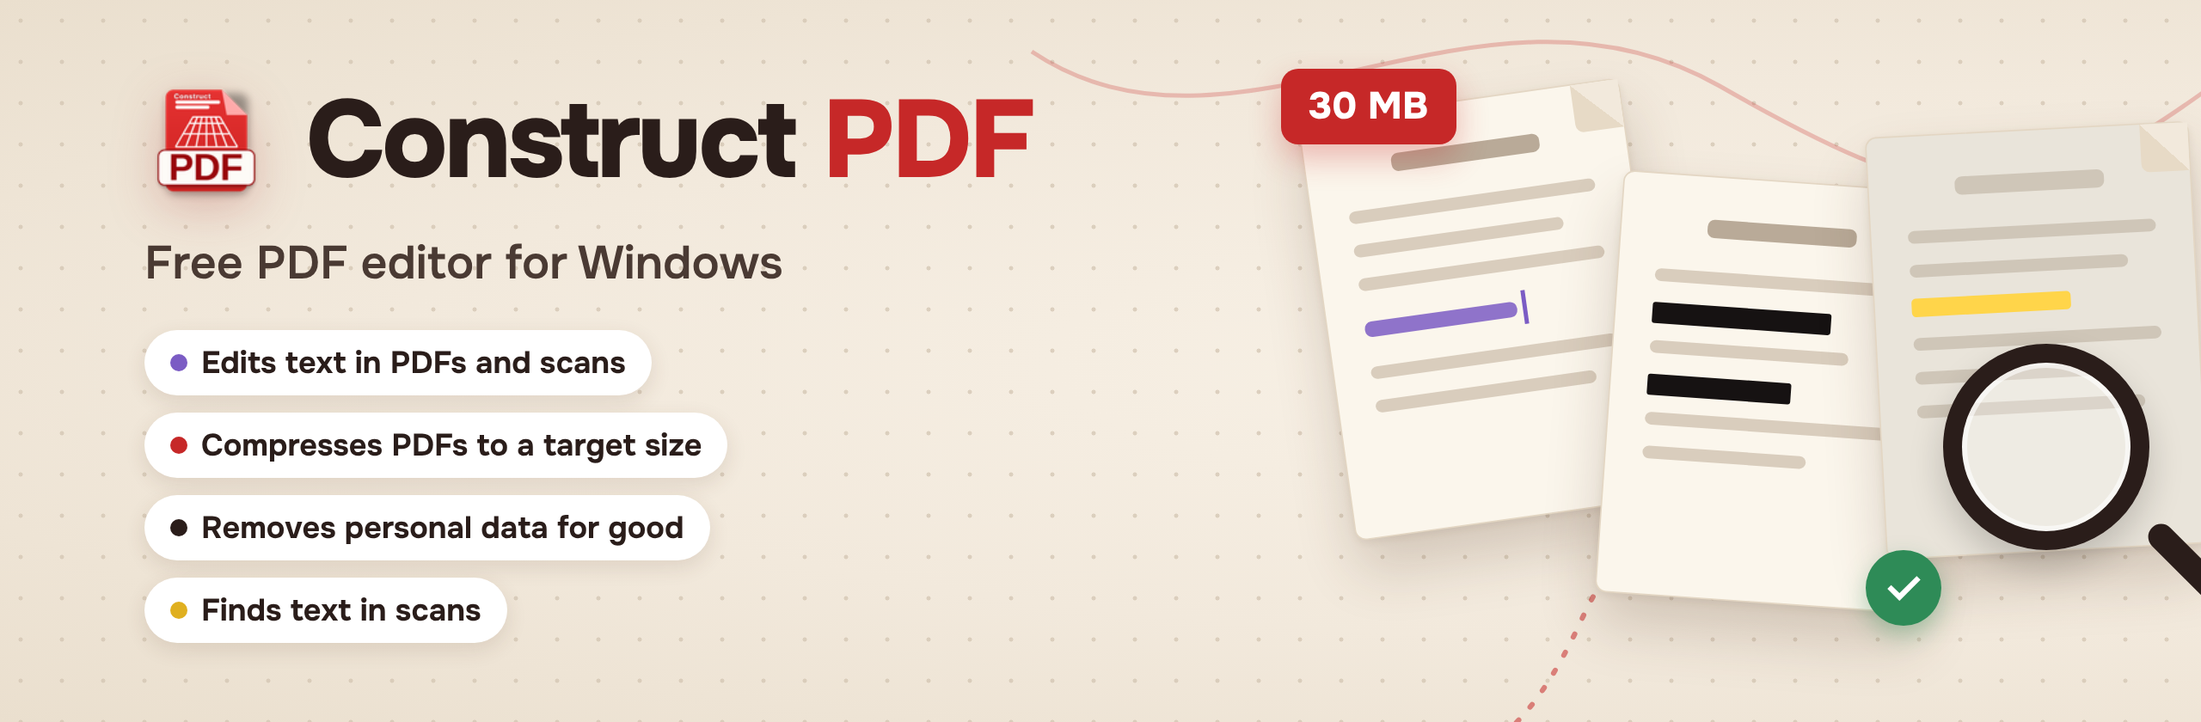
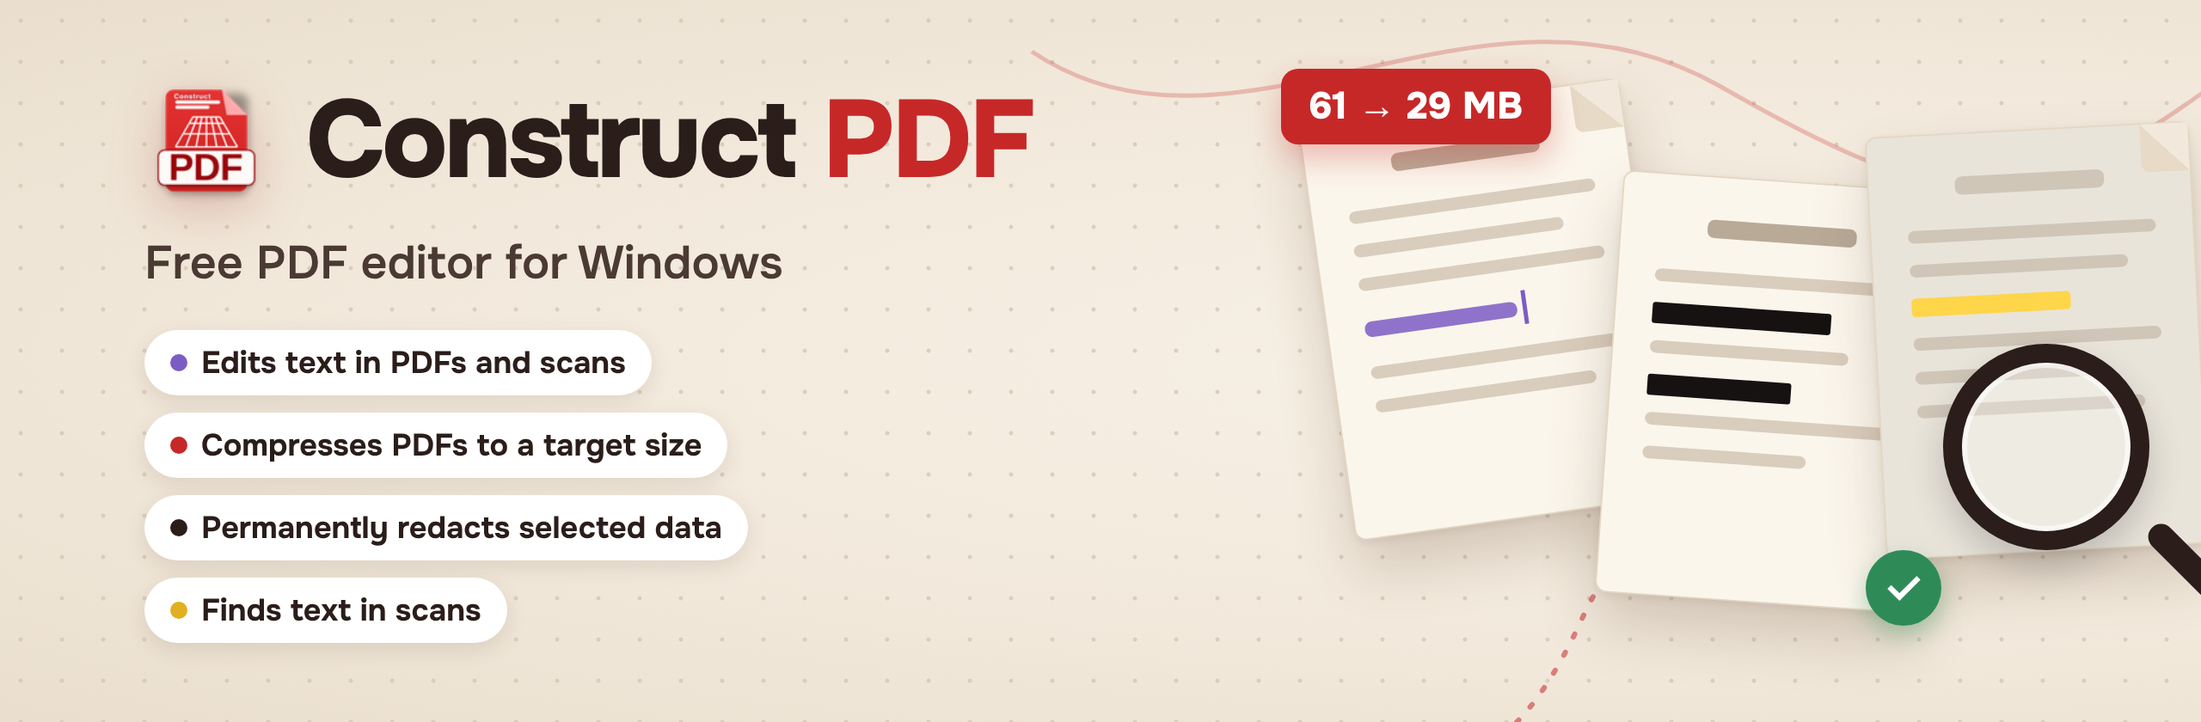
README: download mirror, safety section, wording; issue templates, SECURITY.md

Changed region(s): [[0.5938, 0.0929, 0.7188, 0.2476], [0.0938, 0.681, 0.3438, 0.7738]]

diff --git a/README.ru.md b/README.ru.md
@@ -1,64 +1,82 @@
+<p align="right"><a href="README.md">English</a> · <b>Русский</b></p>
+
 <p align="center"><img src="images/banner.ru.png" alt="Construct PDF — бесплатный PDF-редактор для Windows" width="100%"></p>
 
 <p align="center">
-<b>Бесплатный PDF-редактор для Windows</b> — без рекламы, регистрации и водяных знаков.<br>
-Работает без интернета, файлы никуда не уходят.
+<b>Бесплатный PDF-редактор для Windows.</b> Правка PDF и сканов, сжатие до нужного размера, закрашивание выбранных данных.<br>
+Без рекламы, регистрации и водяных знаков. Работает без интернета: документы остаются на вашем компьютере.
 </p>
 
 <p align="center">
-<a href="https://constructpdf.ru/skachat.html"><b>Скачать</b></a> ·
-<a href="https://constructpdf.online">Версия в браузере</a> ·
-<a href="https://constructpdf.ru">Сайт</a> ·
-<a href="README.md">English</a>
+<a href="https://constructpdf.ru/skachat.html"><b>Скачать для Windows</b></a> ·
+<a href="https://constructpdf.online">Попробовать в браузере</a> ·
+<a href="https://github.com/DmitroRussia/construct-pdf/releases/latest">Копия на GitHub</a>
 </p>
+
+<p align="center">
+<a href="https://github.com/DmitroRussia/construct-pdf/releases/latest"><img alt="Последняя версия" src="https://img.shields.io/github/v/release/DmitroRussia/construct-pdf?label=версия&color=c62828"></a>
+<img alt="Windows 7–11" src="https://img.shields.io/badge/Windows-7%20%E2%80%93%2011-2a1d1a">
+</p>
+
+<!-- СКРИНШОТ: images/editor-ru.png — настоящее окно программы, учебный документ -->
 
 ---
 
-## Что умеет
+## Главное
 
 | Функция | Что делает |
 |---|---|
-| **Редактирует текст в PDF и сканах** | Главная функция: правка текста прямо в PDF и в сканах — с подбором похожего шрифта, как в обычном текстовом редакторе. |
-| **Сжимает PDF до нужного размера** | Вводите нужный размер в мегабайтах — программа сама подбирает сжатие, чтобы файл уложился в лимит портала, а текст оставался читаемым. |
-| **Удаляет личные данные без следа** | Паспорт, СНИЛС, телефон удаляются из файла, а не прячутся под прямоугольником: их не найти поиском и не скопировать. После сохранения программа сама проверяет, что под плашкой не осталось текста. |
-| **Находит текст в сканах** | Русский и английский текст распознаётся прямо на компьютере: по скану работают поиск и копирование, текст можно сохранить в Word. |
-| **Работает со страницами** | Объединить, разделить, повернуть, удалить, извлечь страницы. |
-| **Подписывает документы** | Электронная подпись через КриптоПро, нарисованная или из картинки. |
-| **Переводит в другие форматы** | PDF в Word, картинки в PDF и обратно. |
+| **Редактирует текст в PDF и сканах** | Правка существующего текста в PDF и на страницах сканов с автоматическим подбором шрифта. |
+| **Сжимает до нужного размера** | Вводите размер в мегабайтах — программа подбирает сжатие под лимит портала. Перед отправкой проверьте качество результата. |
+| **Удаляет выбранные данные со страниц** | Выбранный текст и изображение под плашкой удаляются со страницы, а не прячутся: их не найти поиском и не скопировать. После сохранения программа проверяет результат. Свойства документа и закладки проверяйте отдельно. |
+| **Находит текст в сканах** | Распознавание русского и английского прямо на компьютере: по скану работают поиск и копирование, текст можно сохранить в Word. |
 
 <p align="center">
-<img src="images/compress.png" alt="Сжатие до заданного размера" width="410">
-<img src="images/redact.png" alt="Закрашивание данных" width="410">
-<img src="images/ocr.png" alt="Распознавание скана" width="410">
+<img src="images/compress.png" alt="Сжатие до заданного размера" width="600">
 </p>
+<sub>Схема на учебном примере, данные вымышлены.</sub>
 
-<sub>На картинках — учебные примеры, данные вымышлены.</sub>
-
-## Системные требования
-
-- Windows 7, 8.1, 10, 11
-- Установщик около 18 МБ или ZIP без установки
-- Linux — бета-версия, на сайте
+**Ещё:** объединение, разделение, поворот, удаление и извлечение страниц · подпись через КриптоПро, нарисованная или из картинки · PDF в Word, картинки в PDF и обратно.
 
 ## Скачать
 
-- **[Последняя версия на сайте](https://constructpdf.ru/skachat.html)** — установщик и ZIP
-- Без установки, в браузере: **[constructpdf.online](https://constructpdf.online)**
+| Система | Файл | Где |
+|---|---|---|
+| Windows 7, 8.1, 10, 11 | Установщик, около 18 МБ | [constructpdf.ru](https://constructpdf.ru/skachat.html) · [копия на GitHub](https://github.com/DmitroRussia/construct-pdf/releases/latest) |
+| Windows | ZIP без установки | там же |
+| Linux x64 | Бета, `.tar.gz` — часть функций Windows-версии ещё переносится | [копия на GitHub](https://github.com/DmitroRussia/construct-pdf/releases/latest) · сайт |
+| Любой браузер | Онлайн-версия без установки | [constructpdf.online](https://constructpdf.online) |
 
 Программа сама проверяет обновления и предлагает установить новую версию.
 
+## Безопасность скачивания
+
+- Установщик **пока не подписан цифровой подписью**. Некоторые антивирусные движки отмечают эту сборку; разработчик считает срабатывания ошибочными и направил файл на пересмотр.
+- [Отчёт VirusTotal для ConstructPDF-1.7-Setup.exe](https://www.virustotal.com/gui/file/449224ce1a3a748cd1a82ba9be3aa4f89edfb38f7ab740d36618acf5a98a5f87)
+- Контрольные суммы SHA-256 — в каждом релизе и в файле `SHA256SUMS.txt`. Проверить скачанный файл в PowerShell:
+
+```powershell
+Get-FileHash .\ConstructPDF-1.7-Setup.exe -Algorithm SHA256
+```
+
+Совпадение суммы подтверждает, что файл тот же, что опубликован здесь, но само по себе не гарантирует безопасность.
+
 ## Ограничения
 
-- При закрашивании свойства документа и закладки нужно проверять отдельно.
+- При закрашивании свойства документа и закладки проверяйте отдельно.
 - Распознавание — только русский и английский.
 - Версия для Linux пока в бете.
 
-## Ошибки и пожелания
+## Обратная связь
 
-Пишите в [Issues](../../issues) или на **support@constructpdf.ru**.
+- Ошибка или пожелание: создайте [issue](https://github.com/DmitroRussia/construct-pdf/issues/new/choose). Не прикладывайте документы с реальными персональными данными.
+- Проблема безопасности (например, закрашенные данные читаются): см. [SECURITY.md](SECURITY.md).
+- Почта: **support@constructpdf.ru**
+
+Если программа пригодилась, можно поддержать проект звездой.
 
 ## Лицензия
 
-Construct PDF — бесплатная программа (freeware) с закрытым исходным кодом. Этот репозиторий — страница проекта: описание, ссылки на скачивание и обратная связь. Сторонние компоненты и их лицензии перечислены в файле «Лицензии сторонних компонентов» в папке программы.
+Бесплатная программа (freeware). Исходный код программы не публикуется. Этот репозиторий — описание, файлы для скачивания и обратная связь. Сторонние компоненты и их лицензии перечислены в файле «Лицензии сторонних компонентов» в папке программы.
 
 © 2026 DmitroRussia

diff --git a/README.md b/README.md
@@ -1,43 +1,60 @@
+<p align="right"><b>English</b> · <a href="README.ru.md">Русский</a></p>
+
 <p align="center"><img src="images/banner.png" alt="Construct PDF — free PDF editor for Windows" width="100%"></p>
 
 <p align="center">
-<b>Free PDF editor for Windows</b> — no ads, no sign-up, no watermarks.<br>
-Works offline: your files never leave your computer.
+<b>Free PDF editor for Windows.</b> Edit PDFs and scanned pages, compress to a target size, redact selected content.<br>
+No ads, no sign-up, no watermarks. Works offline: your documents stay on your computer.
 </p>
 
 <p align="center">
-<a href="https://constructpdf.ru/en/download.html"><b>Download</b></a> ·
-<a href="https://constructpdf.online/en/">Online version</a> ·
-<a href="https://constructpdf.ru/en/">Website</a> ·
-<a href="README.ru.md">Русская версия</a>
+<a href="https://constructpdf.ru/en/download.html"><b>Download for Windows</b></a> ·
+<a href="https://constructpdf.online/en/">Try online</a> ·
+<a href="https://github.com/DmitroRussia/construct-pdf/releases/latest">GitHub mirror</a>
 </p>
+
+<p align="center">
+<a href="https://github.com/DmitroRussia/construct-pdf/releases/latest"><img alt="Latest release" src="https://img.shields.io/github/v/release/DmitroRussia/construct-pdf?label=latest&color=c62828"></a>
+<img alt="Windows 7–11" src="https://img.shields.io/badge/Windows-7%20%E2%80%93%2011-2a1d1a">
+</p>
+
+<!-- SCREENSHOT: images/editor-en.png — real program window, example document -->
 
 ---
 
-## Features
+## Main features
 
 | Feature | What it does |
 |---|---|
-| **Edits text in PDFs and scans** | The main feature: edit text right in a PDF or a scanned page, with a matching font — like in a regular word processor. |
-| **Compresses PDFs to a target size** | Enter the size in megabytes and the app picks the compression so the file fits an upload limit while the text stays readable. |
-| **Removes personal data for good** | ID numbers, phone numbers and addresses are removed from the file, not just covered with a box: they cannot be found or copied. After saving, the app checks that no text is left under the boxes. |
-| **Finds text in scans** | Russian and English OCR on your computer: scans become searchable and copyable, and the text can be saved to Word. |
-| **Works with pages** | Merge, split, rotate, delete and extract pages. |
-| **Signs documents** | CryptoPro e-signature, a drawn signature or one from an image. |
-| **Converts** | PDF to Word, images to PDF and back. |
+| **Edits text in PDFs and scans** | Edit existing text in PDFs and in scanned pages, with automatic font matching. |
+| **Compresses to a target size** | Enter the size in megabytes and the app picks the compression to fit an upload limit. Check the result quality before sending. |
+| **Redacts selected content** | Selected text and the image under the box are removed from the page, not just covered: they cannot be found or copied. A self-check runs after saving. Check document properties and bookmarks separately. |
+| **Finds text in scans** | Russian and English OCR on your computer: scans become searchable and copyable, the text can be saved to Word. |
 
-## System requirements
-
-- Windows 7, 8.1, 10, 11
-- Installer about 18 MB, or a ZIP that runs without installation
-- Linux — beta, available on the website
+**Also:** merge, split, rotate, delete and extract pages · CryptoPro e-signature, drawn or image signature · PDF to Word, images to PDF and back.
 
 ## Download
 
-- **[Latest version on the website](https://constructpdf.ru/en/download.html)** — installer and ZIP
-- No installation, in your browser: **[constructpdf.online](https://constructpdf.online/en/)**
+| Platform | File | Where |
+|---|---|---|
+| Windows 7, 8.1, 10, 11 | Installer, about 18 MB | [constructpdf.ru](https://constructpdf.ru/en/download.html) · [GitHub mirror](https://github.com/DmitroRussia/construct-pdf/releases/latest) |
+| Windows | Portable ZIP, runs without installation | same |
+| Linux x64 | Beta, `.tar.gz` — some Windows features are still being ported | [GitHub mirror](https://github.com/DmitroRussia/construct-pdf/releases/latest) · website |
+| Any browser | Online version, no installation | [constructpdf.online](https://constructpdf.online/en/) |
 
 The app checks for updates and offers to install a new version.
+
+## Download safety
+
+- The installer is **not yet code-signed**. Some antivirus engines flag this build; the developer considers these detections false positives and has submitted the file for review.
+- [VirusTotal report for ConstructPDF-1.7-Setup.exe](https://www.virustotal.com/gui/file/449224ce1a3a748cd1a82ba9be3aa4f89edfb38f7ab740d36618acf5a98a5f87)
+- SHA-256 checksums are listed in each release and in `SHA256SUMS.txt`. To check a downloaded file in PowerShell:
+
+```powershell
+Get-FileHash .\ConstructPDF-1.7-Setup.exe -Algorithm SHA256
+```
+
+A matching checksum confirms the file is the one published here; it is not a safety guarantee by itself.
 
 ## Limitations
 
@@ -45,12 +62,16 @@ The app checks for updates and offers to install a new version.
 - OCR supports Russian and English only.
 - The Linux version is in beta.
 
-## Bugs and feature requests
+## Feedback
 
-Open an [issue](../../issues) or write to **support@constructpdf.ru**.
+- Bug or idea: open an [issue](https://github.com/DmitroRussia/construct-pdf/issues/new/choose). Please do not attach documents with real personal data.
+- Security problem (for example, redacted data still readable): see [SECURITY.md](SECURITY.md).
+- Email: **support@constructpdf.ru**
+
+If the app is useful to you, you can support the project with a star.
 
 ## License
 
-Construct PDF is free software (freeware) with closed source code. This repository is the project page: description, download links and feedback. Third-party components and their licenses are listed in the "Third-party licenses" file in the program folder.
+Freeware. The application source code is not published. This repository hosts documentation, downloads and issue tracking. Third-party components and their licenses are listed in a file in the program folder.
 
 © 2026 DmitroRussia

diff --git a/SECURITY.md b/SECURITY.md
@@ -1,0 +1,27 @@
+# Security / Безопасность
+
+## Reporting a problem
+
+If you find a security problem — for example, **redacted data can still be found, copied or recovered**, a document leaks data it should not, or the update mechanism behaves unexpectedly — please **do not open a public issue**.
+
+Write to **support@constructpdf.ru** with the subject `Security`. Include the program version, your OS, the steps to reproduce and, if possible, an anonymized example file. Do not send documents with real personal data.
+
+You will get a reply, and the fix will be listed in the release notes.
+
+## Supported versions
+
+Only the latest release receives fixes. The program checks for updates and offers to install a new version.
+
+---
+
+## Как сообщить о проблеме
+
+Если вы нашли проблему безопасности — например, **закрашенные данные всё равно находятся поиском, копируются или восстанавливаются**, документ раскрывает лишние данные или обновление ведёт себя неожиданно, — пожалуйста, **не создавайте открытый issue**.
+
+Напишите на **support@constructpdf.ru** с темой `Security`. Укажите версию программы, систему, шаги для воспроизведения и, если можно, обезличенный пример файла. Не отправляйте документы с реальными персональными данными.
+
+Вы получите ответ, а исправление будет указано в описании релиза.
+
+## Поддерживаемые версии
+
+Исправления выходят только для последней версии. Программа сама проверяет обновления и предлагает установить новую.
